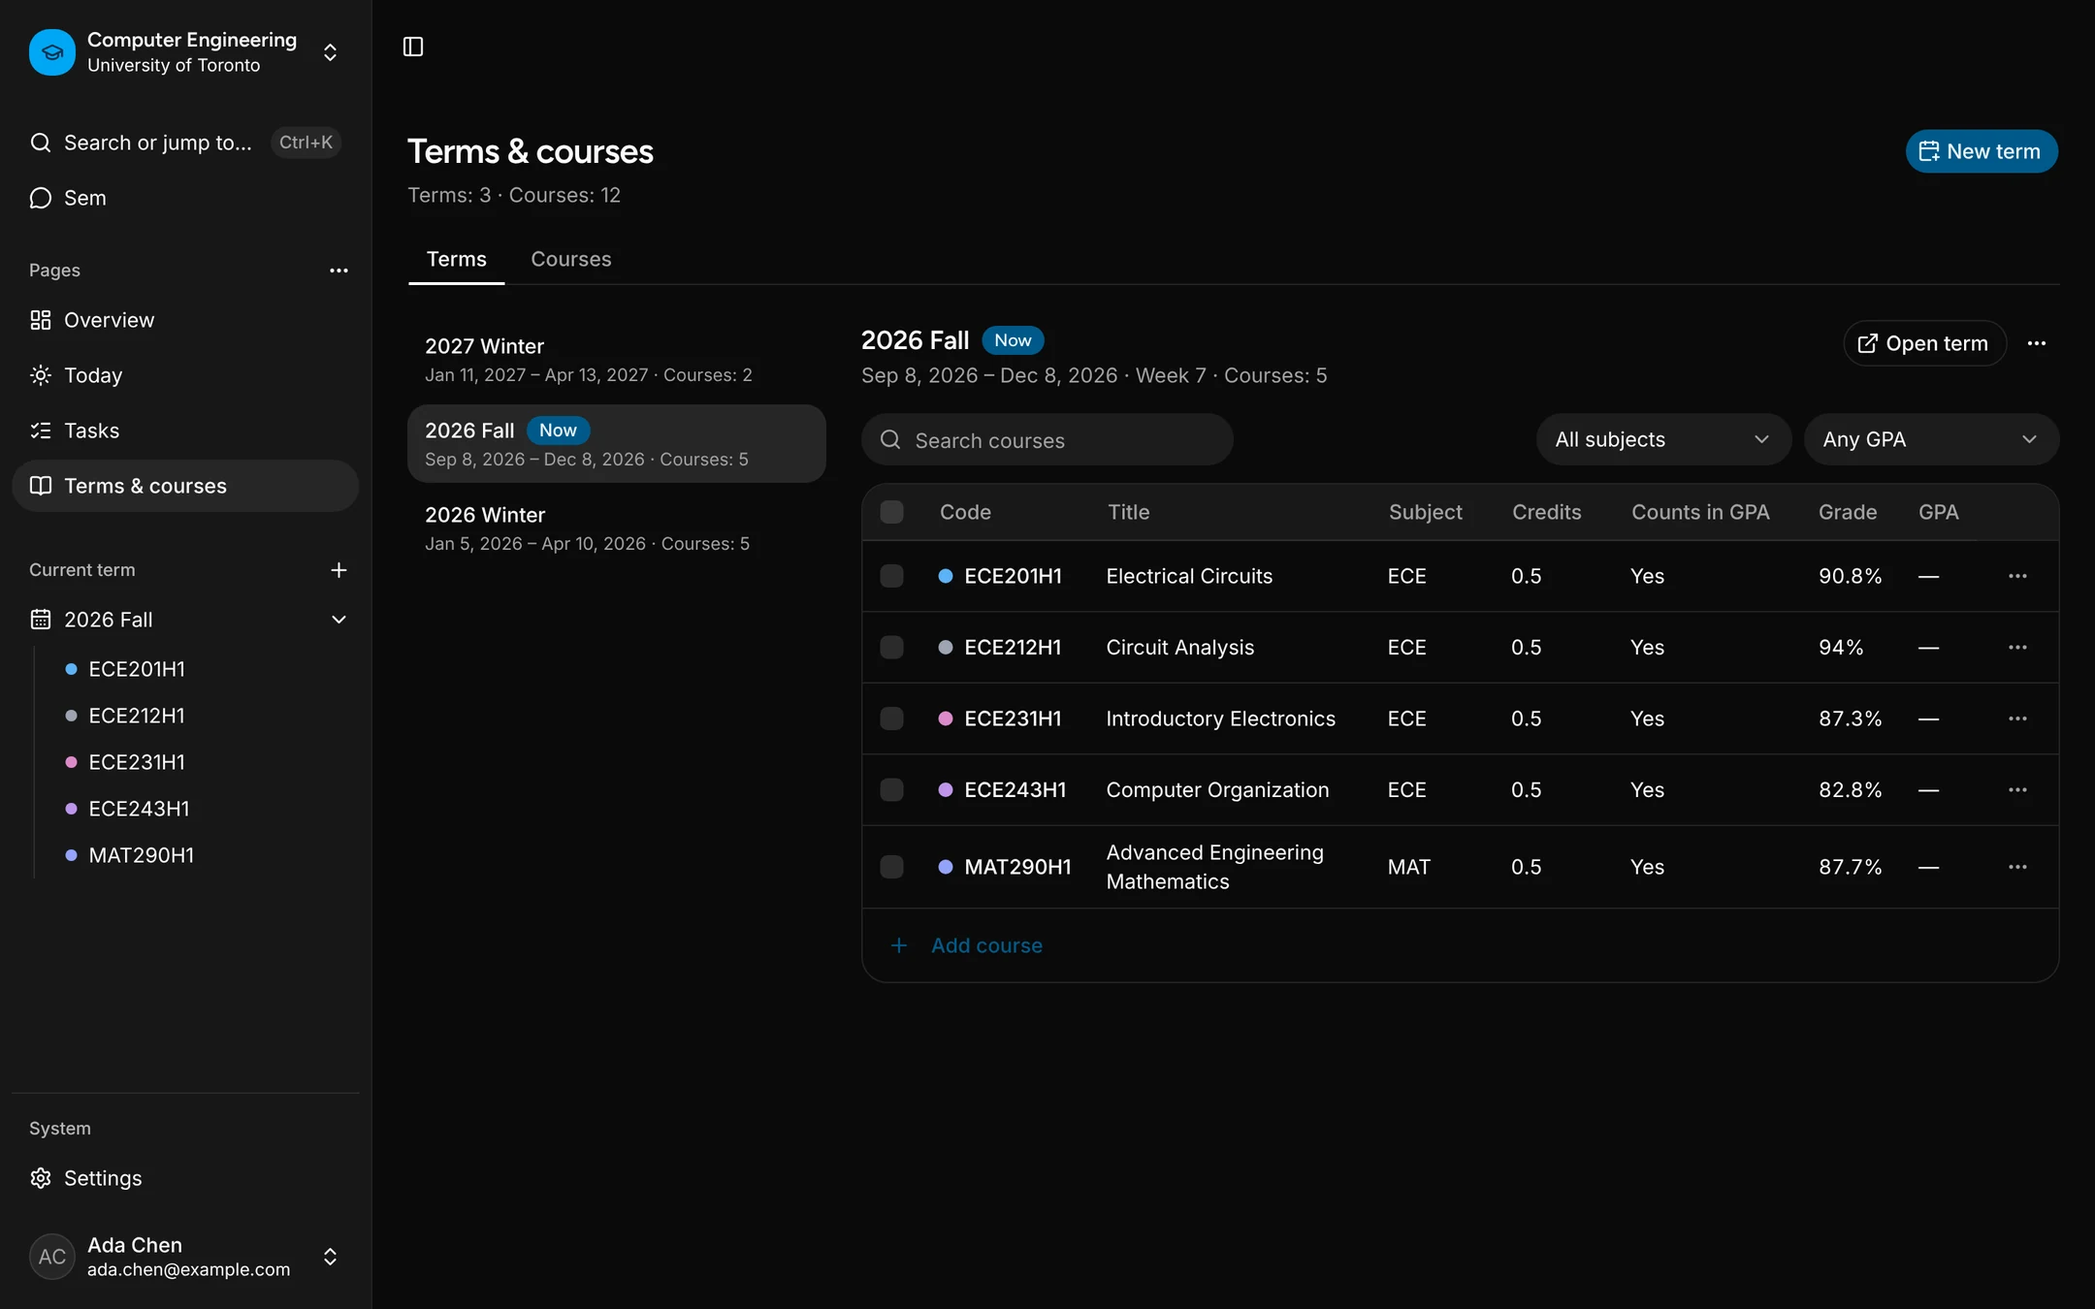
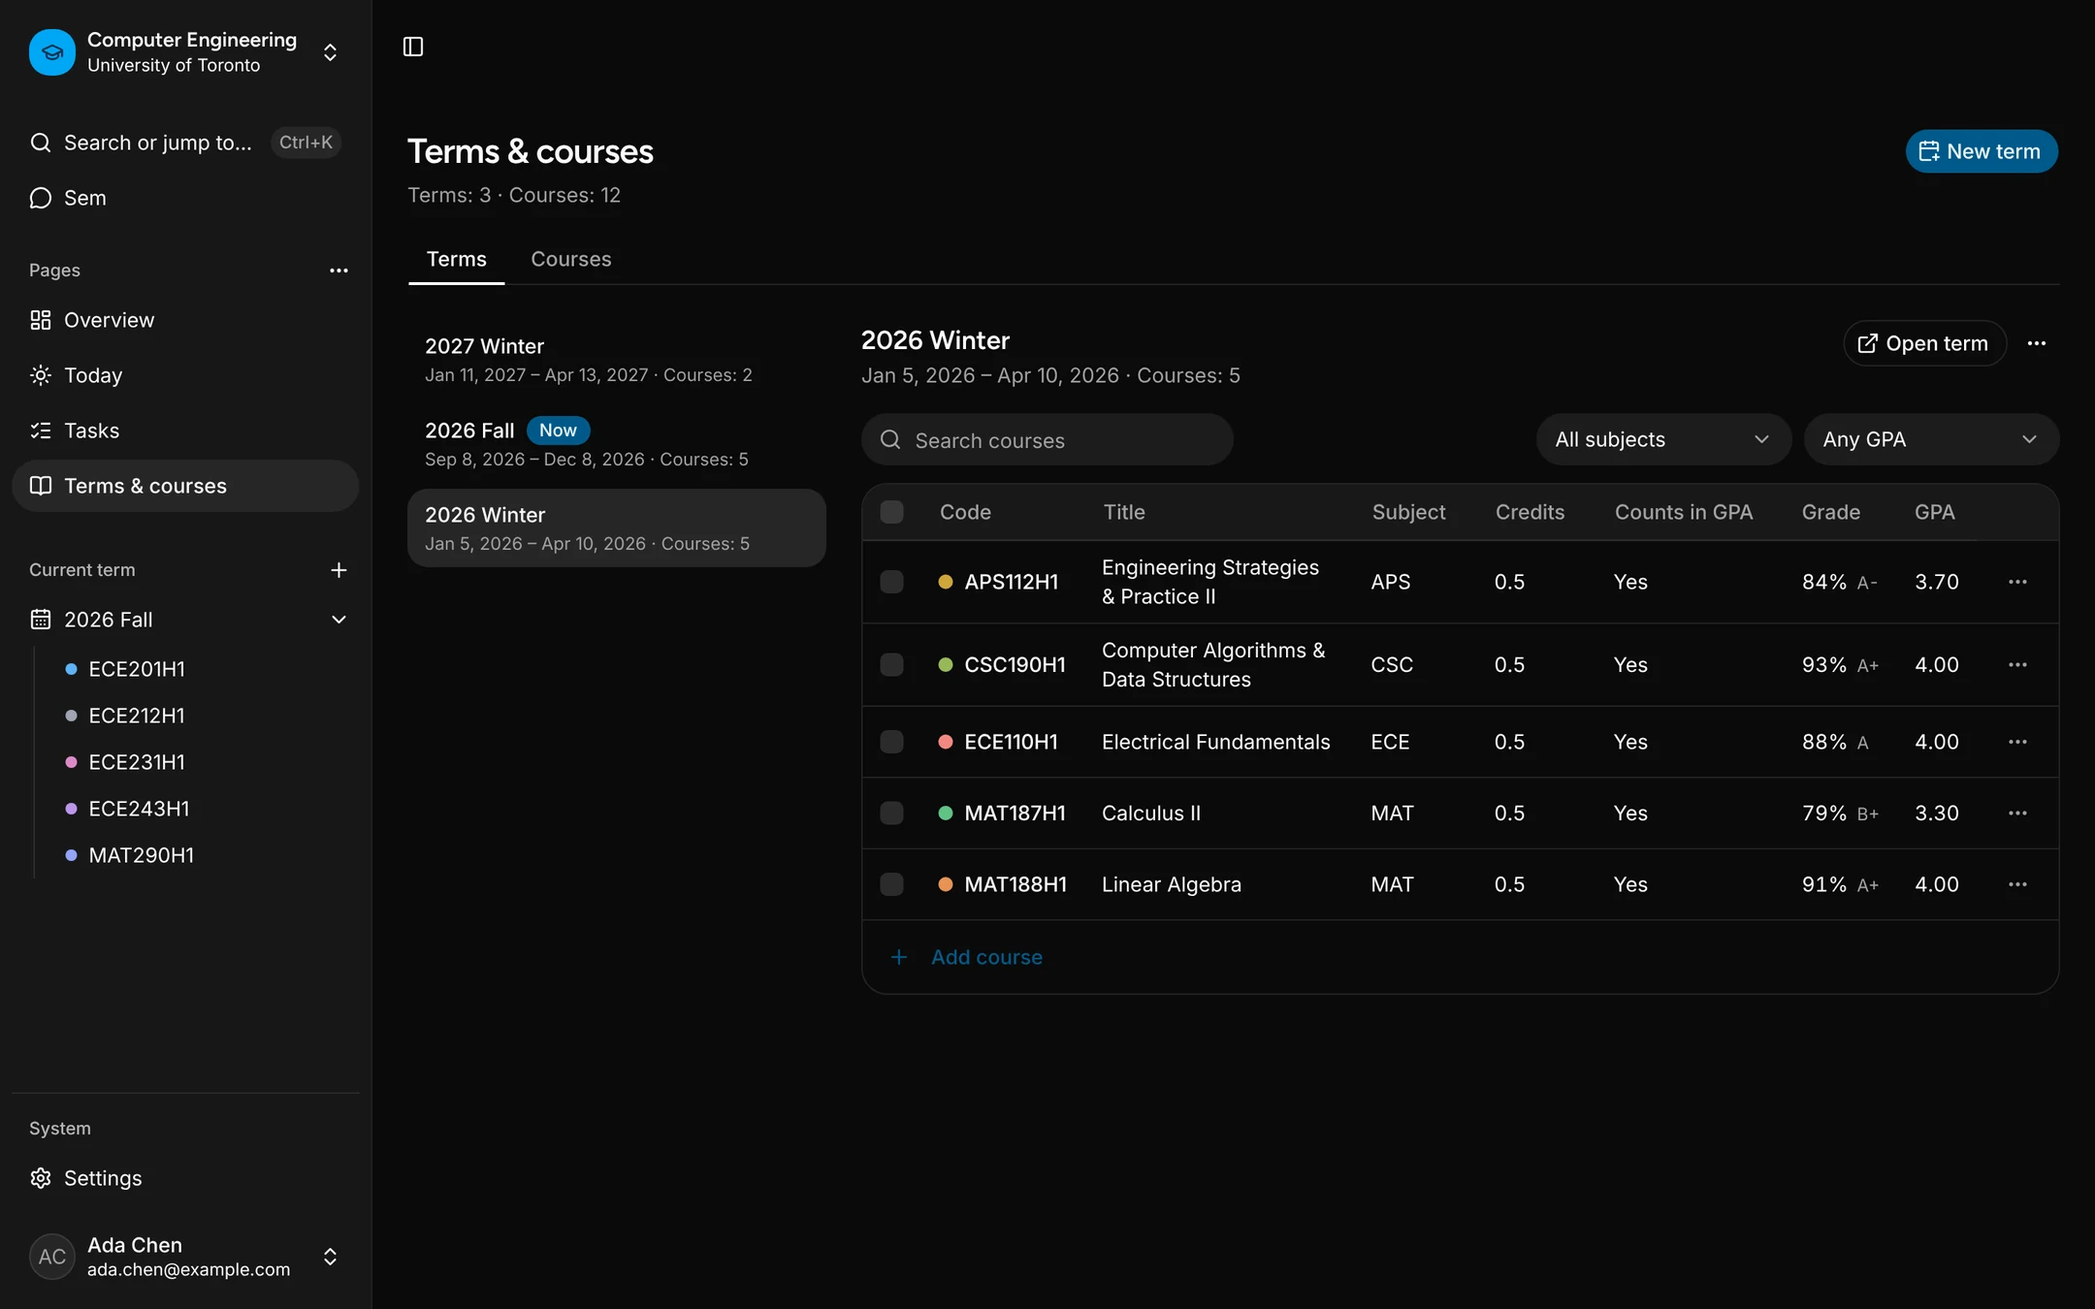
docs: Chinese screenshots for README.zh-CN, review fixes, roadmap
- README.zh-CN.md now uses a Chinese-UI screenshot set (*-zh-*.webp),
  including a Chinese Sem conversation.
- Reshoot terms & courses on the finished 2026 Winter term (final grades
  and GPA) and tasks without the empty add row, with the full sidebar.
- Canvas imports assignments only; grades are viewed in the Canvas tab.
- Local Ollama needs SEMESTRA_ALLOW_PRIVATE_EGRESS=true in apps/api/.env.
- Self-host image isn't public yet; point to the ghcr login / local build.
- 'API token' wording, assessment tasks are opt-in, install Chromium
  before e2e, fuller lint description, softer module/capability claims.
- Roadmap: single-user mode for self-hosting (planned, not implemented).

Claude-Session: https://claude.ai/code/session_01CZGbH5YJCsNN5CmQtpCrzf

diff --git a/README.zh-CN.md b/README.zh-CN.md
@@ -15,8 +15,8 @@
 <br />
 
 <picture>
-  <source media="(prefers-color-scheme: dark)" srcset="docs/assets/screenshots/grades-dark.webp" />
-  <img alt="Semestra 的课程成绩簿：考核列表、分类平均分、当前成绩，以及达到目标 GPA 所需的分数" src="docs/assets/screenshots/grades-light.webp" />
+  <source media="(prefers-color-scheme: dark)" srcset="docs/assets/screenshots/grades-zh-dark.webp" />
+  <img alt="Semestra 的课程成绩簿：考核列表、分类平均分、当前成绩，以及达到目标 GPA 所需的分数" src="docs/assets/screenshots/grades-zh-light.webp" />
 </picture>
 
 </div>
@@ -27,15 +27,13 @@ Semestra 是给大学生用的学期规划工具。建好 Program，加上学期
 
 这个仓库是 [Semestra](https://github.com/jinyuanZhou-Leo/Semestra) 的从零重写版。每个功能都是一个声明了类型化 capability 的模块，所以同一个操作在界面里、在助手里、在插件里、通过 MCP 都能用。
 
-> 截图为英文界面；应用完整支持简体中文，可在设置里切换语言。
-
 ## 功能
 
 ### 成绩与 GPA
 
 <picture>
-  <source media="(prefers-color-scheme: dark)" srcset="docs/assets/screenshots/academics-dark.webp" />
-  <img alt="学期与课程页：课程、学分、成绩与 GPA 表格" src="docs/assets/screenshots/academics-light.webp" />
+  <source media="(prefers-color-scheme: dark)" srcset="docs/assets/screenshots/academics-zh-dark.webp" />
+  <img alt="学期与课程页：已结束学期的课程、学分、最终成绩与 GPA" src="docs/assets/screenshots/academics-zh-light.webp" />
 </picture>
 
 - **每门课一个成绩簿**：加权分类、可标记不计入的考核、按分数或百分比录入，当前成绩实时计算。
@@ -46,8 +44,8 @@ Semestra 是给大学生用的学期规划工具。建好 Program，加上学期
 ### 课表与日历
 
 <picture>
-  <source media="(prefers-color-scheme: dark)" srcset="docs/assets/screenshots/schedule-dark.webp" />
-  <img alt="学期日历周视图：讲座、辅导、实验、截止日期与事件" src="docs/assets/screenshots/schedule-light.webp" />
+  <source media="(prefers-color-scheme: dark)" srcset="docs/assets/screenshots/schedule-zh-dark.webp" />
+  <img alt="学期日历周视图：讲座、辅导、实验、截止日期与事件" src="docs/assets/screenshots/schedule-zh-light.webp" />
 </picture>
 
 - **按教学班管理上课时间**（讲座、辅导、实验），带教室、起止周和单次停课。
@@ -57,39 +55,39 @@ Semestra 是给大学生用的学期规划工具。建好 Program，加上学期
 ### 今天与待办
 
 <picture>
-  <source media="(prefers-color-scheme: dark)" srcset="docs/assets/screenshots/today-dark.webp" />
-  <img alt="今天页：今天的课程与当前时间线、本周到期、今天的待办" src="docs/assets/screenshots/today-light.webp" />
+  <source media="(prefers-color-scheme: dark)" srcset="docs/assets/screenshots/today-zh-dark.webp" />
+  <img alt="今天页：今天的课程与当前时间线、本周到期、今天的待办" src="docs/assets/screenshots/today-zh-light.webp" />
 </picture>
 
 <picture>
-  <source media="(prefers-color-scheme: dark)" srcset="docs/assets/screenshots/tasks-dark.webp" />
-  <img alt="待办列表：优先级、标记、截止日期与课程标签" src="docs/assets/screenshots/tasks-light.webp" />
+  <source media="(prefers-color-scheme: dark)" srcset="docs/assets/screenshots/tasks-zh-dark.webp" />
+  <img alt="待办列表：优先级、标记、截止日期与课程标签" src="docs/assets/screenshots/tasks-zh-light.webp" />
 </picture>
 
 - **今天页**：下一节课、本周到期和今天的待办。
-- **待办支持列表、智能列表和快速添加**：输入 `Fri lab report !!!`，日期和优先级会自动识别。待办可以归属课程，考核也能自动生成待办。
+- **待办支持列表、智能列表和快速添加**：输入 `Fri lab report !!!`，日期和优先级会自动识别。待办可以归属课程，考核也能自动生成待办（在设置里开启）。
 - **页面自己排**：Program、学期和课程的页面都是卡片看板，可以排序、调整大小，还能用插件扩展。
 
 ### Sem：AI 助手
 
 <picture>
-  <source media="(prefers-color-scheme: dark)" srcset="docs/assets/screenshots/assistant-dark.webp" />
-  <img alt="Sem 回答学生某门课的现状以及期中需要考多少分" src="docs/assets/screenshots/assistant-light.webp" />
+  <source media="(prefers-color-scheme: dark)" srcset="docs/assets/screenshots/assistant-zh-dark.webp" />
+  <img alt="Sem 回答学生某门课的现状以及期中需要考多少分" src="docs/assets/screenshots/assistant-zh-light.webp" />
 </picture>
 
 - **问账户里的任何事**，比如"期中要考多少分？"、"把 ECE243 的实验挪到周五"。Sem 用的是和应用相同的 capability，默认在修改数据前先给出确认卡片。
 - **使用你自己的 API 密钥**：支持 Anthropic、OpenAI、Google Gemini、Ollama，以及任何兼容 OpenAI 或 Anthropic 接口的服务商，按模型统计用量和费用。
 - **智能导入**：拖入 syllabus、课表或 ICS 文件，先审核抽取出的课程、上课时间和考核，再保存。
-- **记忆、技能和临时对话**，还有 `/mcp` 上的 **MCP 服务端**，外部客户端可以用个人访问令牌调用同样的工具。
+- **记忆、技能和临时对话**，还有 `/mcp` 上的 **MCP 服务端**，外部客户端可以用 API 令牌调用同样的工具。
 
 ### 插件与集成
 
 <picture>
-  <source media="(prefers-color-scheme: dark)" srcset="docs/assets/screenshots/plugins-dark.webp" />
-  <img alt="设置中的插件目录：习惯打卡、番茄钟、便签、计数器、世界时钟和 Canvas 标签页" src="docs/assets/screenshots/plugins-light.webp" />
+  <source media="(prefers-color-scheme: dark)" srcset="docs/assets/screenshots/plugins-zh-dark.webp" />
+  <img alt="设置中的插件目录：习惯打卡、番茄钟、便签、计数器、世界时钟和 Canvas 标签页" src="docs/assets/screenshots/plugins-zh-light.webp" />
 </picture>
 
-- **Canvas LMS**：关联 Canvas 课程后可以导入作业和成绩、叠加它的日历，并在 Canvas 标签页里浏览公告、单元、页面和测验。
+- **Canvas LMS**：关联 Canvas 课程后可以导入作业、叠加它的日历，并在 Canvas 标签页里浏览公告、成绩、单元、页面和测验。
 - **官方插件**，按账户安装：习惯打卡、番茄钟、便签、计数器和世界时钟。写插件见[插件开发指南](docs/plugin-authoring.md)。
 - **设置逐级继承**：账户 → Program → 学期 → 课程；亮色与暗色主题；完整的中英文界面。
 - **数据归你所有**：一键导出为一个归档，导入到另一个实例，或者删除账户。
@@ -125,28 +123,30 @@ pnpm dev        # API http://localhost:8000，Web http://localhost:5173
 
 打开 <http://localhost:5173>，用任意邮箱登录。开发环境不会真的发邮件：验证码会打印在 API 日志里，并写入 `apps/api/data/dev-outbox.jsonl`。
 
-要和 Sem 对话，打开 **设置 → AI → 服务商**，添加一个 API 密钥，或者指向本地的 Ollama。
+要和 Sem 对话，打开 **设置 → AI → 服务商**，添加一个 API 密钥，或者指向本地的 Ollama。默认会拦截发往 localhost 和内网地址的请求，所以用本地 Ollama 时要在 `apps/api/.env` 里加上 `SEMESTRA_ALLOW_PRIVATE_EGRESS=true`，再重启 `pnpm dev`。
 
 ### 常用命令
 
 | 命令 | 作用 |
 |---|---|
 | `pnpm dev` | 同时启动 API（自动重载）和 Web |
-| `pnpm lint` / `pnpm format` | Web 用 oxlint 与 oxfmt，API 用 ruff |
+| `pnpm lint` / `pnpm format` | Web 跑 oxlint、oxfmt、文案检查和 React Compiler 检查；API 跑 ruff |
 | `pnpm typecheck` | `tsc` 与 pyright |
 | `pnpm test` | Vitest 与 pytest |
 | `pnpm gen:api` | 导出 OpenAPI 并重新生成 `packages/api-client` |
-| `pnpm --filter @semestra/web e2e` | Playwright 冒烟测试 |
+| `pnpm --filter @semestra/web e2e` | Playwright 冒烟测试（第一次先运行 `pnpm --filter @semestra/web exec playwright install chromium`） |
 
 ## 自部署
 
 一个容器同时提供 API 和网页：
 
 ```bash
-cd deploy/selfhost
+cd Semestra-Next/deploy/selfhost
 cp .env.example .env    # 可选
 docker compose up -d    # 然后打开 http://localhost:8000
 ```
+
+镜像目前还没公开：需要先登录 `ghcr.io` 或在本地构建，见 [deploy/selfhost/README.md](deploy/selfhost/README.md)。
 
 邮件、密钥、备份与升级见 [deploy/selfhost/README.md](deploy/selfhost/README.md)，全部环境变量的说明在 [deploy/.env.example](deploy/.env.example)。托管版（Vercel 与 GCP）见 [deploy/README.md](deploy/README.md)。
 
@@ -164,7 +164,11 @@ docs/
   plugin-authoring.md  插件开发指南
 ```
 
-每个功能在前后端各是一个模块：`academics`、`grading`、`schedule`、`tasks`、`files`、`imports`、`lms`、`ai`、`agent`、`plugins`、`settings`、`portability` 等。后端模块声明 **capability**，一份定义同时生成 REST 路由、助手工具和 MCP 工具；前端模块通过 `defineModule` 注册自己的页面、卡片和设置。
+大多数功能在前后端各是一个模块：`academics`、`grading`、`schedule`、`tasks`、`files`、`imports`、`lms`、`ai`、`plugins`、`settings`、`portability` 等（助手在后端叫 `agent`，在前端叫 `assistant`）。后端模块声明 **capability**，一份定义默认同时生成 REST 路由、助手工具和 MCP 工具；前端模块通过 `defineModule` 注册自己的页面、卡片和设置。
+
+## 路线图
+
+- **自部署单用户模式**（规划中）：设置 `SEMESTRA_SINGLE_USER=true` 后，第一个访问者用邮箱和密码创建管理员账户，之后关闭注册。这个变量已经在 `deploy/.env.example` 里预留，但目前还不起作用。
 
 ## 文档
 

diff --git a/README.md b/README.md
@@ -33,7 +33,7 @@ This repository is a ground-up rewrite of the original [Semestra](https://github
 
 <picture>
   <source media="(prefers-color-scheme: dark)" srcset="docs/assets/screenshots/academics-dark.webp" />
-  <img alt="Terms and courses page with a table of courses, credits, grades and GPA" src="docs/assets/screenshots/academics-light.webp" />
+  <img alt="Terms and courses page showing a finished term's courses with credits, final grades and GPA" src="docs/assets/screenshots/academics-light.webp" />
 </picture>
 
 - **A gradebook for every course** with weighted categories, dropped assessments, scores as points or percentages, and a live current mark.
@@ -65,7 +65,7 @@ This repository is a ground-up rewrite of the original [Semestra](https://github
 </picture>
 
 - **A Today page** with your next class, what's due this week and today's tasks.
-- **Tasks with lists, smart lists and quick add.** Type `Fri lab report !!!` and the date and priority fill themselves in. Tasks can belong to a course, and assessments can create their own.
+- **Tasks with lists, smart lists and quick add.** Type `Fri lab report !!!` and the date and priority fill themselves in. Tasks can belong to a course, and assessments can create matching tasks when you turn that on.
 - **Pages you arrange yourself.** Every program, term and course page is a board of cards you can reorder, resize and extend with plugins.
 
 ### Sem, the AI assistant
@@ -78,7 +78,7 @@ This repository is a ground-up rewrite of the original [Semestra](https://github
 - **Ask about anything in your account**, like "what do I need on the midterm?" or "move my ECE243 lab to Friday". Sem uses the same capabilities as the app and by default shows a confirmation card before it changes your data.
 - **Bring your own key** for Anthropic, OpenAI, Google Gemini, Ollama, or any OpenAI- or Anthropic-compatible endpoint. Usage and cost are tracked per model.
 - **Smart import.** Drop in a syllabus, a timetable or an ICS file, then review the extracted courses, meetings and assessments before anything is saved.
-- **Memory, skills and temporary chats**, and an **MCP server** at `/mcp` so external clients can use the same tools with a personal access token.
+- **Memory, skills and temporary chats**, and an **MCP server** at `/mcp` so external clients can use the same tools with an API token.
 
 ### Plugins and integrations
 
@@ -87,7 +87,7 @@ This repository is a ground-up rewrite of the original [Semestra](https://github
   <img alt="Plugin catalog in settings: habit streak, Pomodoro, sticky note, counter, world clock and Canvas tab" src="docs/assets/screenshots/plugins-light.webp" />
 </picture>
 
-- **Canvas LMS:** link a Canvas course to import assignments and grades, overlay its calendar, and browse announcements, modules, pages and quizzes in a Canvas tab.
+- **Canvas LMS:** link a Canvas course to import its assignments, overlay its calendar, and browse announcements, grades, modules, pages and quizzes in a Canvas tab.
 - **First-party plugins**, installed per account: habit streak, Pomodoro timer, sticky notes, counter and world clock. See the [plugin authoring guide](docs/plugin-authoring.md).
 - **Settings that inherit** from account to program, term and course; light and dark themes; full English and Simplified Chinese.
 - **Your data stays yours:** export everything to one archive, import it into another instance, or delete your account.
@@ -123,28 +123,30 @@ pnpm dev        # API on http://localhost:8000, web on http://localhost:5173
 
 Open <http://localhost:5173> and sign in with any email address. In development no email is sent: the verification code is printed in the API log and written to `apps/api/data/dev-outbox.jsonl`.
 
-To chat with Sem, open **Settings → AI → Providers** and add an API key, or point it at a local Ollama.
+To chat with Sem, open **Settings → AI → Providers** and add an API key, or point it at a local Ollama. Outbound requests to localhost and private addresses are blocked by default, so for a local Ollama add `SEMESTRA_ALLOW_PRIVATE_EGRESS=true` to `apps/api/.env` and restart `pnpm dev`.
 
 ### Common commands
 
 | Command | What it does |
 |---|---|
 | `pnpm dev` | Run the API (with auto-reload) and the web app together |
-| `pnpm lint` / `pnpm format` | oxlint and oxfmt for the web app, ruff for the API |
+| `pnpm lint` / `pnpm format` | oxlint, oxfmt, i18n and React Compiler checks for the web app; ruff for the API |
 | `pnpm typecheck` | `tsc` and pyright |
 | `pnpm test` | Vitest and pytest |
 | `pnpm gen:api` | Export the OpenAPI schema and regenerate `packages/api-client` |
-| `pnpm --filter @semestra/web e2e` | Playwright smoke tests |
+| `pnpm --filter @semestra/web e2e` | Playwright smoke tests (run `pnpm --filter @semestra/web exec playwright install chromium` once first) |
 
 ## Self-hosting
 
 A single container serves both the API and the web app:
 
 ```bash
-cd deploy/selfhost
+cd Semestra-Next/deploy/selfhost
 cp .env.example .env    # optional
 docker compose up -d    # then open http://localhost:8000
 ```
+
+The image isn't public yet: see [deploy/selfhost/README.md](deploy/selfhost/README.md) to log in to `ghcr.io` or build it locally.
 
 Email, secrets, backups and upgrades are covered in [deploy/selfhost/README.md](deploy/selfhost/README.md), and every environment variable is documented in [deploy/.env.example](deploy/.env.example). The hosted setup (Vercel and GCP) is in [deploy/README.md](deploy/README.md).
 
@@ -162,7 +164,11 @@ docs/
   plugin-authoring.md  How to write a plugin
 ```
 
-Each feature is a module on both sides: `academics`, `grading`, `schedule`, `tasks`, `files`, `imports`, `lms`, `ai`, `agent`, `plugins`, `settings`, `portability` and more. A backend module declares **capabilities**, and each one becomes a REST route, an assistant tool and an MCP tool from a single definition. A frontend module registers its pages, cards and settings with `defineModule`.
+Most features are a module on both sides: `academics`, `grading`, `schedule`, `tasks`, `files`, `imports`, `lms`, `ai`, `plugins`, `settings`, `portability` and more (the assistant is `agent` in the API and `assistant` in the web app). A backend module declares **capabilities**, and by default each one becomes a REST route, an assistant tool and an MCP tool from a single definition. A frontend module registers its pages, cards and settings with `defineModule`.
+
+## Roadmap
+
+- **Single-user mode for self-hosting** (planned): with `SEMESTRA_SINGLE_USER=true`, the first visitor creates an admin account with email and password, then sign-up closes. The variable is reserved in `deploy/.env.example` but does nothing yet.
 
 ## Documentation
 
